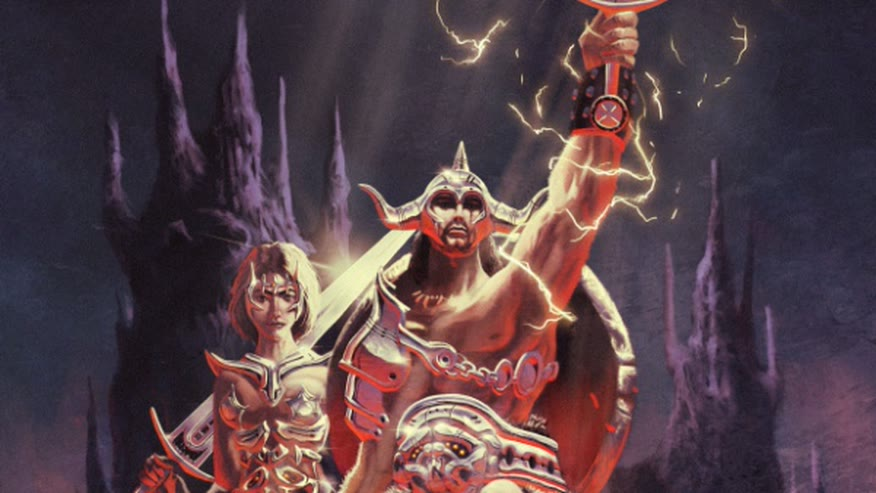
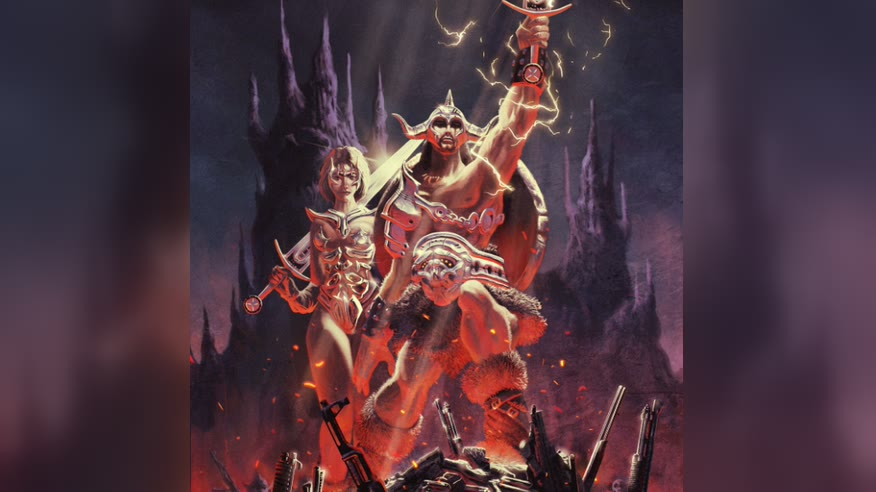
Frame the post cover with the portfolio's blurred-backdrop treatment

diff --git a/docs/03-content.md b/docs/03-content.md
@@ -164,7 +164,13 @@ status: published   # or draft
 marker in the list.
 
 `cover_image` is optional and rendered at 16:9. The first post uses the artwork
-from the old portfolio's home page, cropped to keep the figures centred.
+from the old portfolio's home page.
+
+It is a tall 600×877 painting going into a wide slot, so it gets the same
+treatment the portfolio itself uses (`imageWithBlur.css`): the square
+`object-cover` crop sits sharp and centred, over a copy of the same artwork
+scaled to fill and blurred. Cropping straight to 16:9 was tried first and cut
+the sword off the top and the rubble off the bottom — half the composition.
 
 The list page shows title, date and reading time in the mono label style,
 summary, and tags. No excerpt beyond the summary line, no view counter, and no
